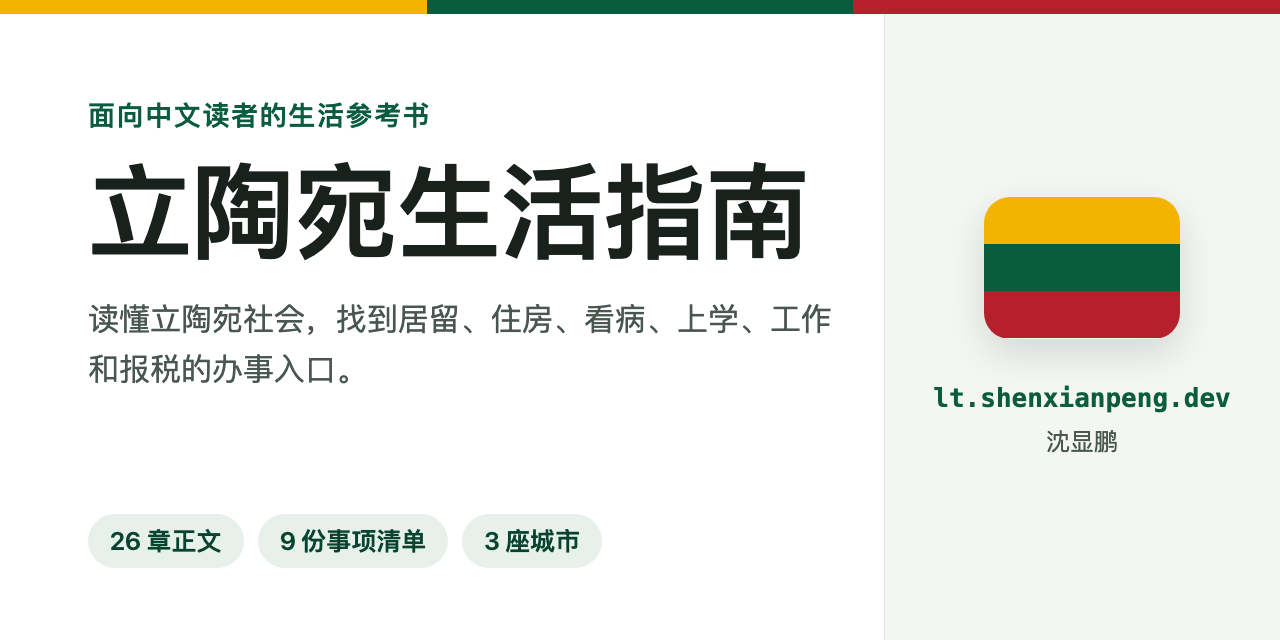
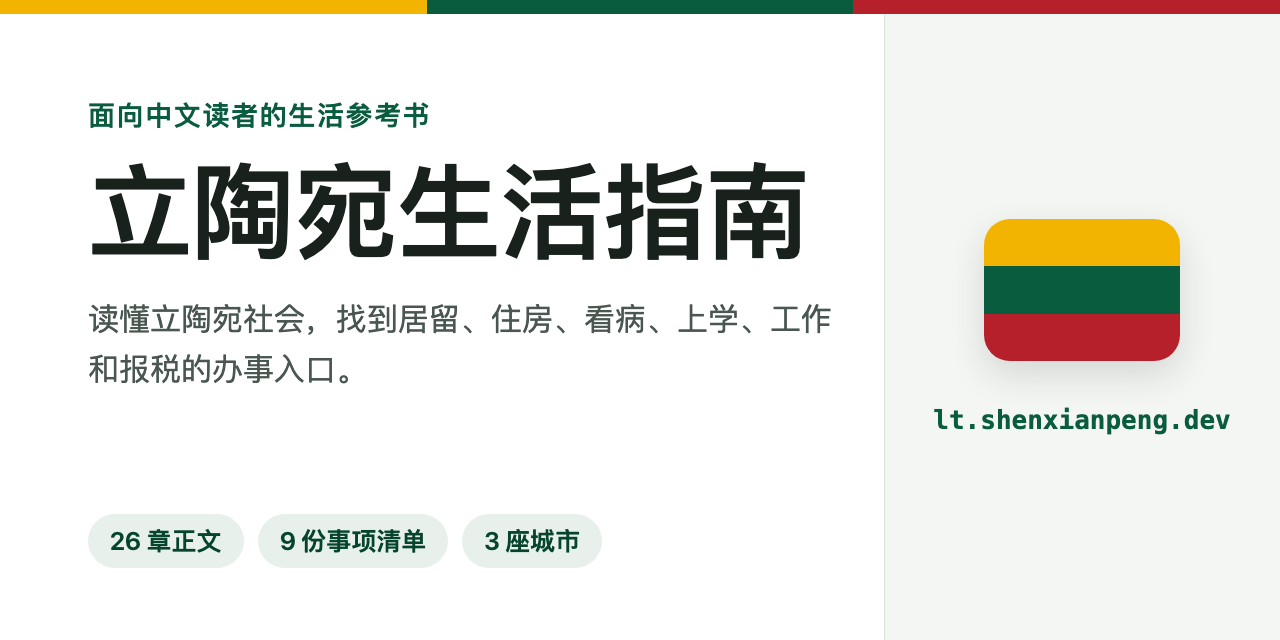
chore: drop the author name from the social preview image

Changed region(s): [[0.75, 0.2812, 0.9375, 0.5625], [0.7188, 0.5938, 0.9688, 0.7188]]

diff --git a/.github/social-preview.html b/.github/social-preview.html
@@ -42,7 +42,6 @@
   .flag i:nth-child(2) { background: #0a5c3f; }
   .flag i:nth-child(3) { background: #b5202b; }
   .url { margin-top: 44px; font-family: ui-monospace, "SF Mono", Menlo, monospace; font-size: 26px; font-weight: 600; color: #0a5c3f; }
-  .author { margin-top: 12px; font-size: 24px; color: #4a5750; }
 </style>
 </head>
 <body>
@@ -57,7 +56,6 @@
   <div class="side">
     <div class="flag"><i></i><i></i><i></i></div>
     <p class="url">lt.shenxianpeng.dev</p>
-    <p class="author">沈显鹏</p>
   </div>
 </body>
 </html>
